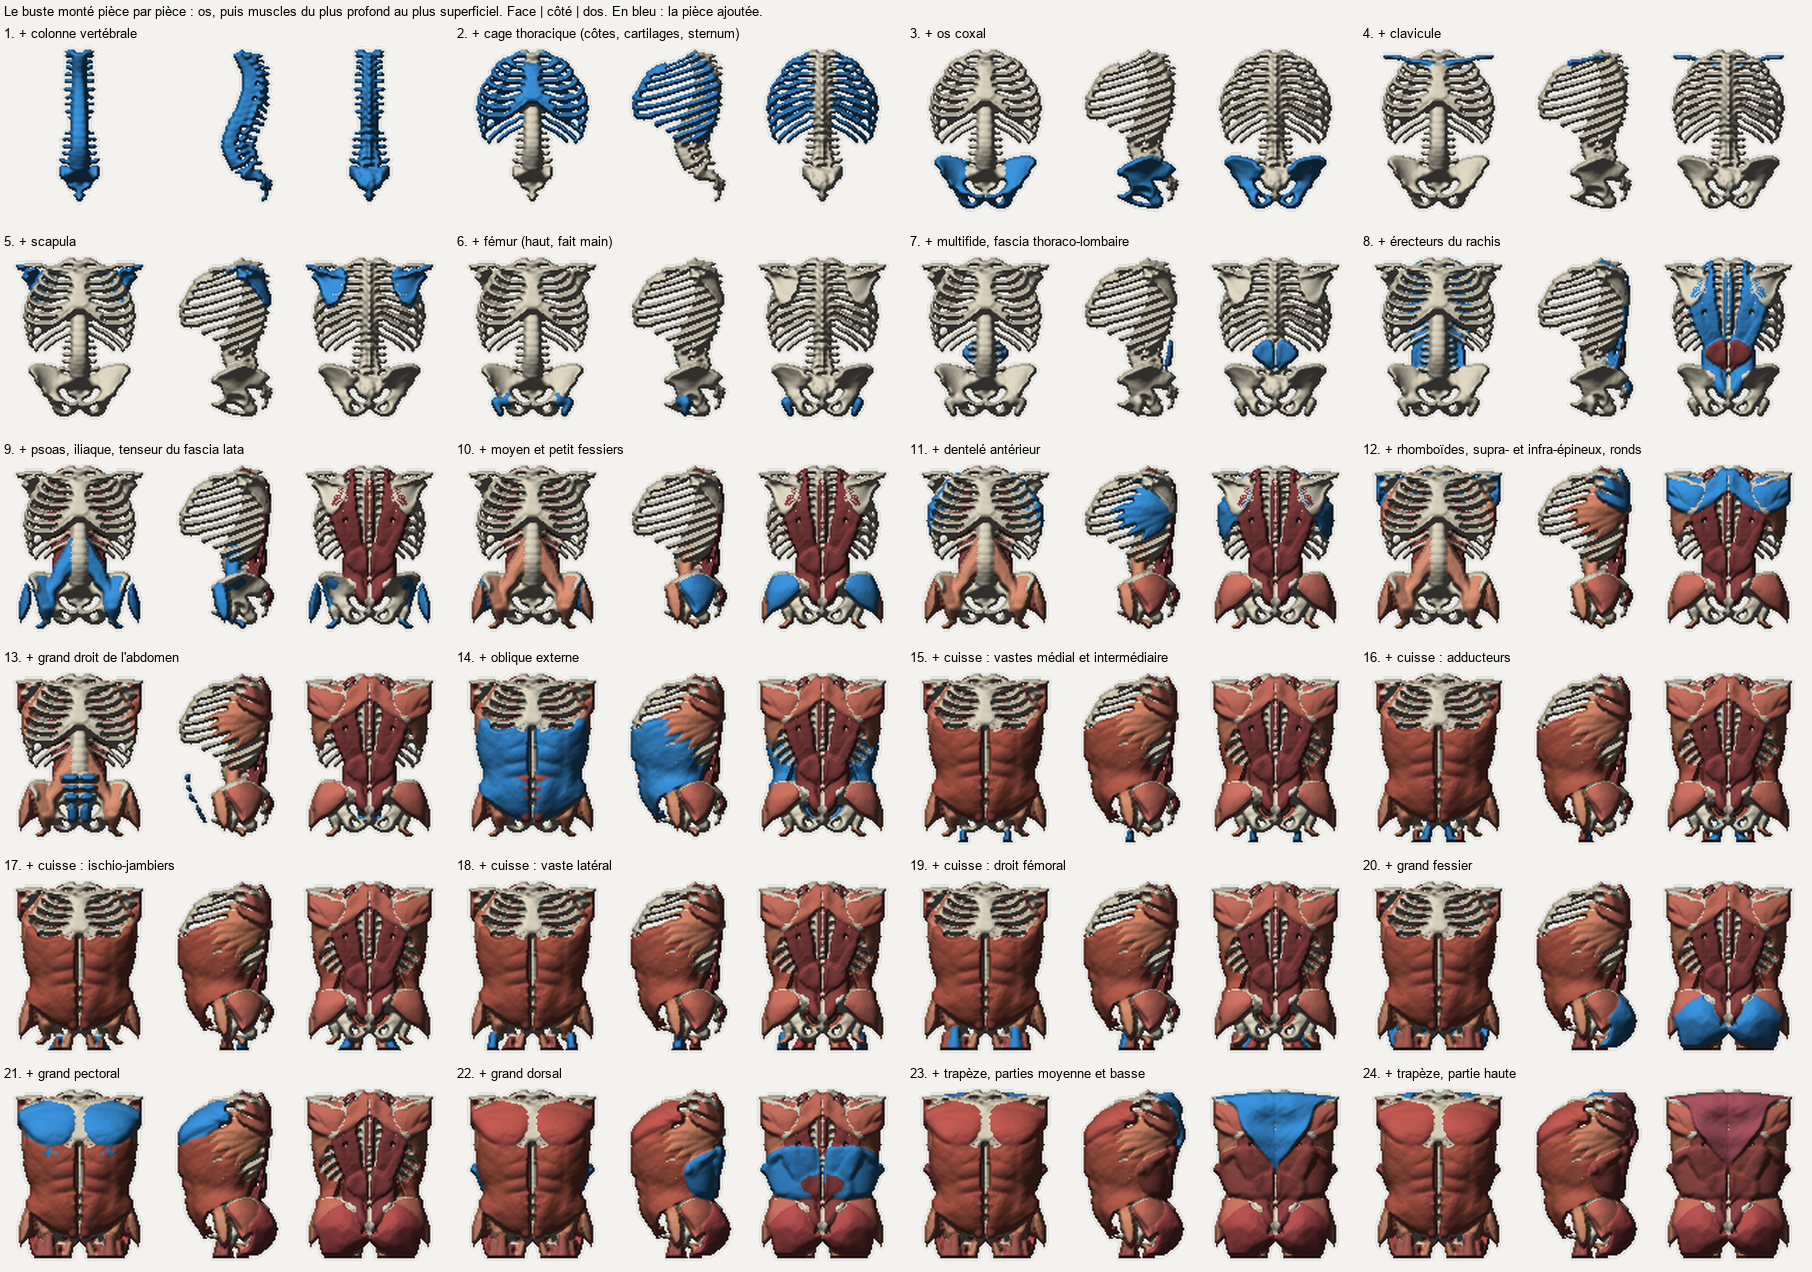
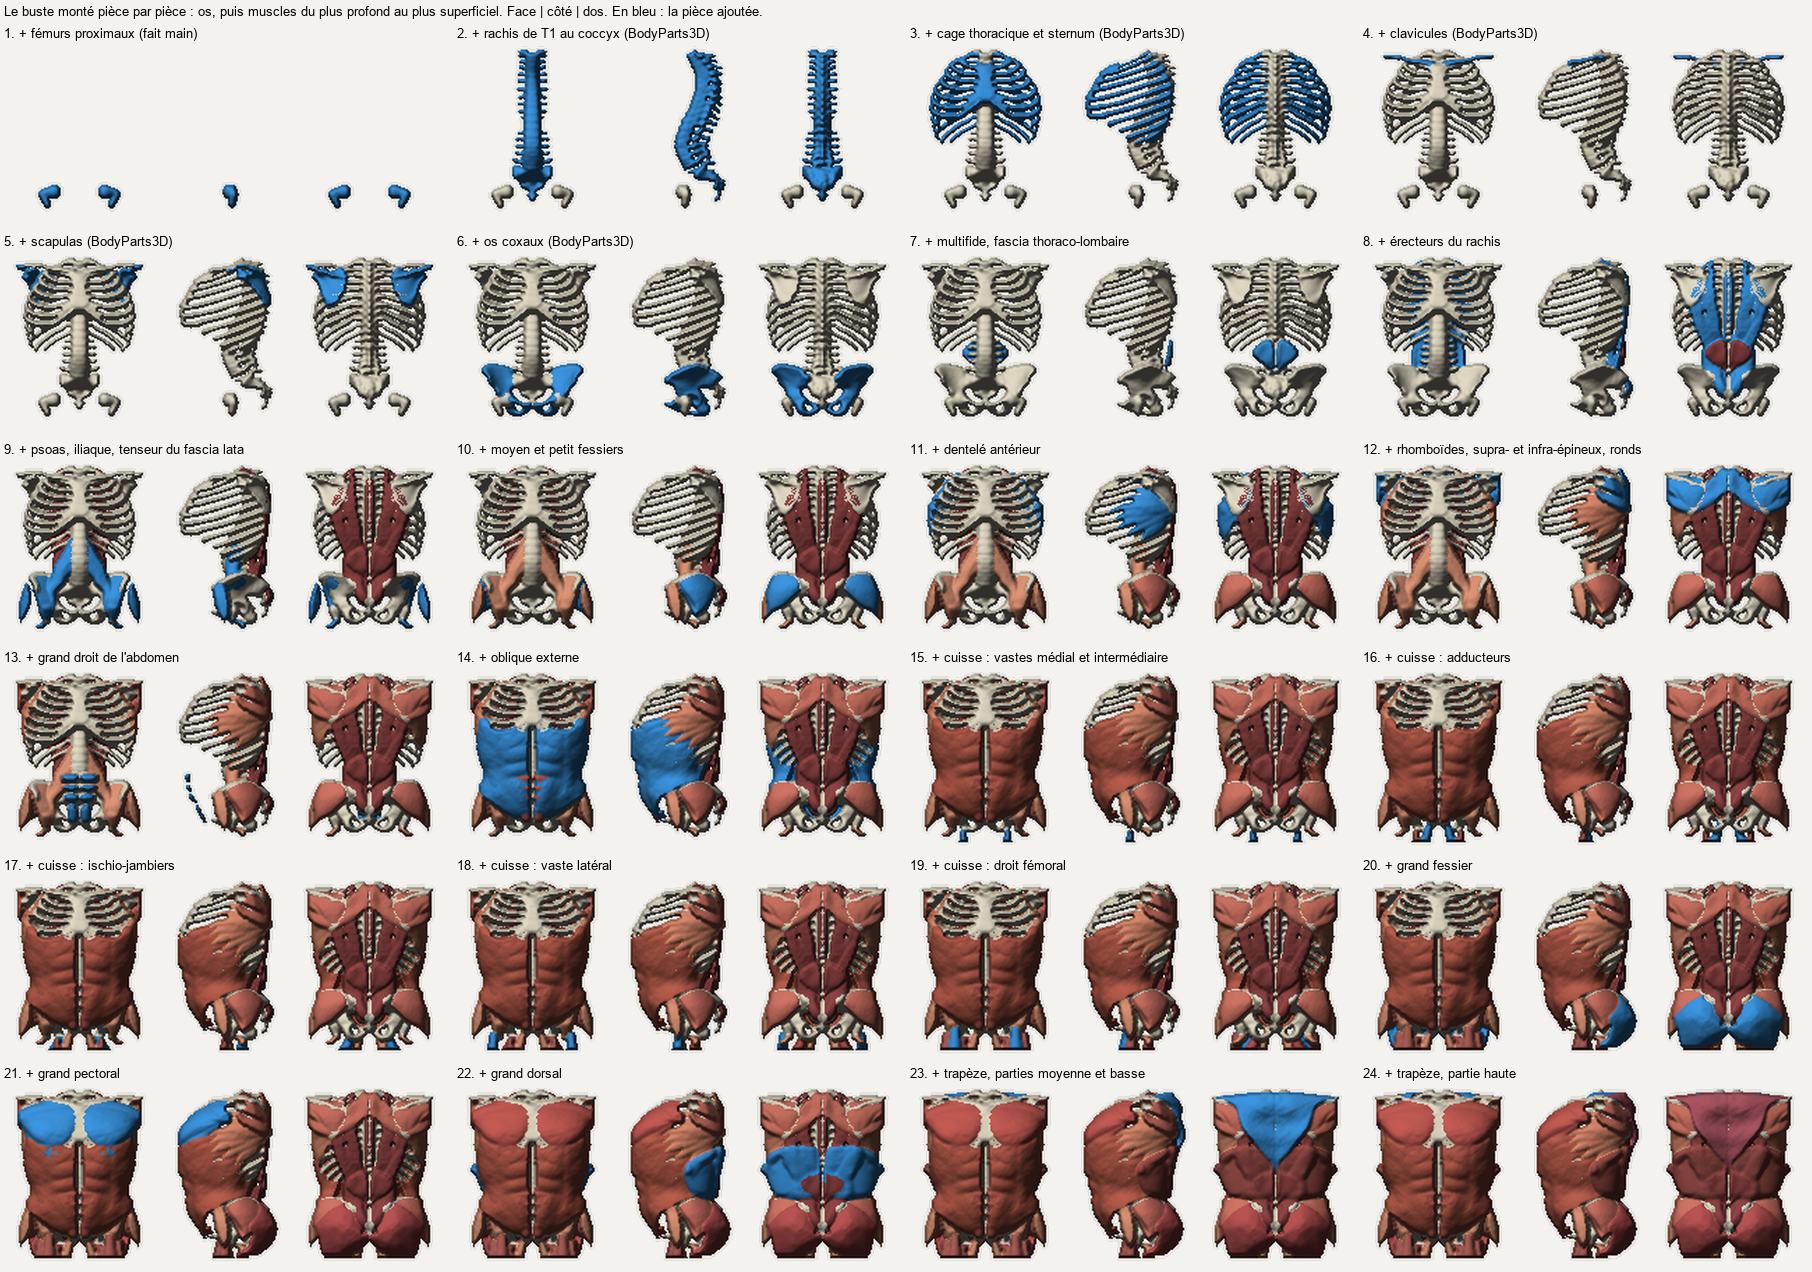
Body 3D: build-up board in Virginie's bone order (proximal femurs, spine from T1, rib cage, clavicles, scapulas, hip bones)

diff --git a/Art/work/transfer-proto/fable-crack/buildup.py b/Art/work/transfer-proto/fable-crack/buildup.py
@@ -15,13 +15,13 @@ from PIL import Image, ImageDraw, ImageFont
 import stack3d as s
 
 # (stack part name prefix, French label), in the order they are added
-BONES = [
-    ("spine", "colonne vertébrale"),
-    ("rib cage", "cage thoracique (côtes, cartilages, sternum)"),
-    ("hip bone", "os coxal"),
-    ("clavicle", "clavicule"),
-    ("scapula", "scapula"),
-    ("femur", "fémur (haut, fait main)"),
+BONES = [   # order of Virginie 2026-11-17
+    ("femur", "fémurs proximaux (fait main)"),
+    ("spine", "rachis de T1 au coccyx (BodyParts3D)"),
+    ("rib cage", "cage thoracique et sternum (BodyParts3D)"),
+    ("clavicle", "clavicules (BodyParts3D)"),
+    ("scapula", "scapulas (BodyParts3D)"),
+    ("hip bone", "os coxaux (BodyParts3D)"),
 ]
 MUSCLES = [   # deepest first
     ("thoracolumbar fascia, multifidus", "multifide, fascia thoraco-lombaire"),
